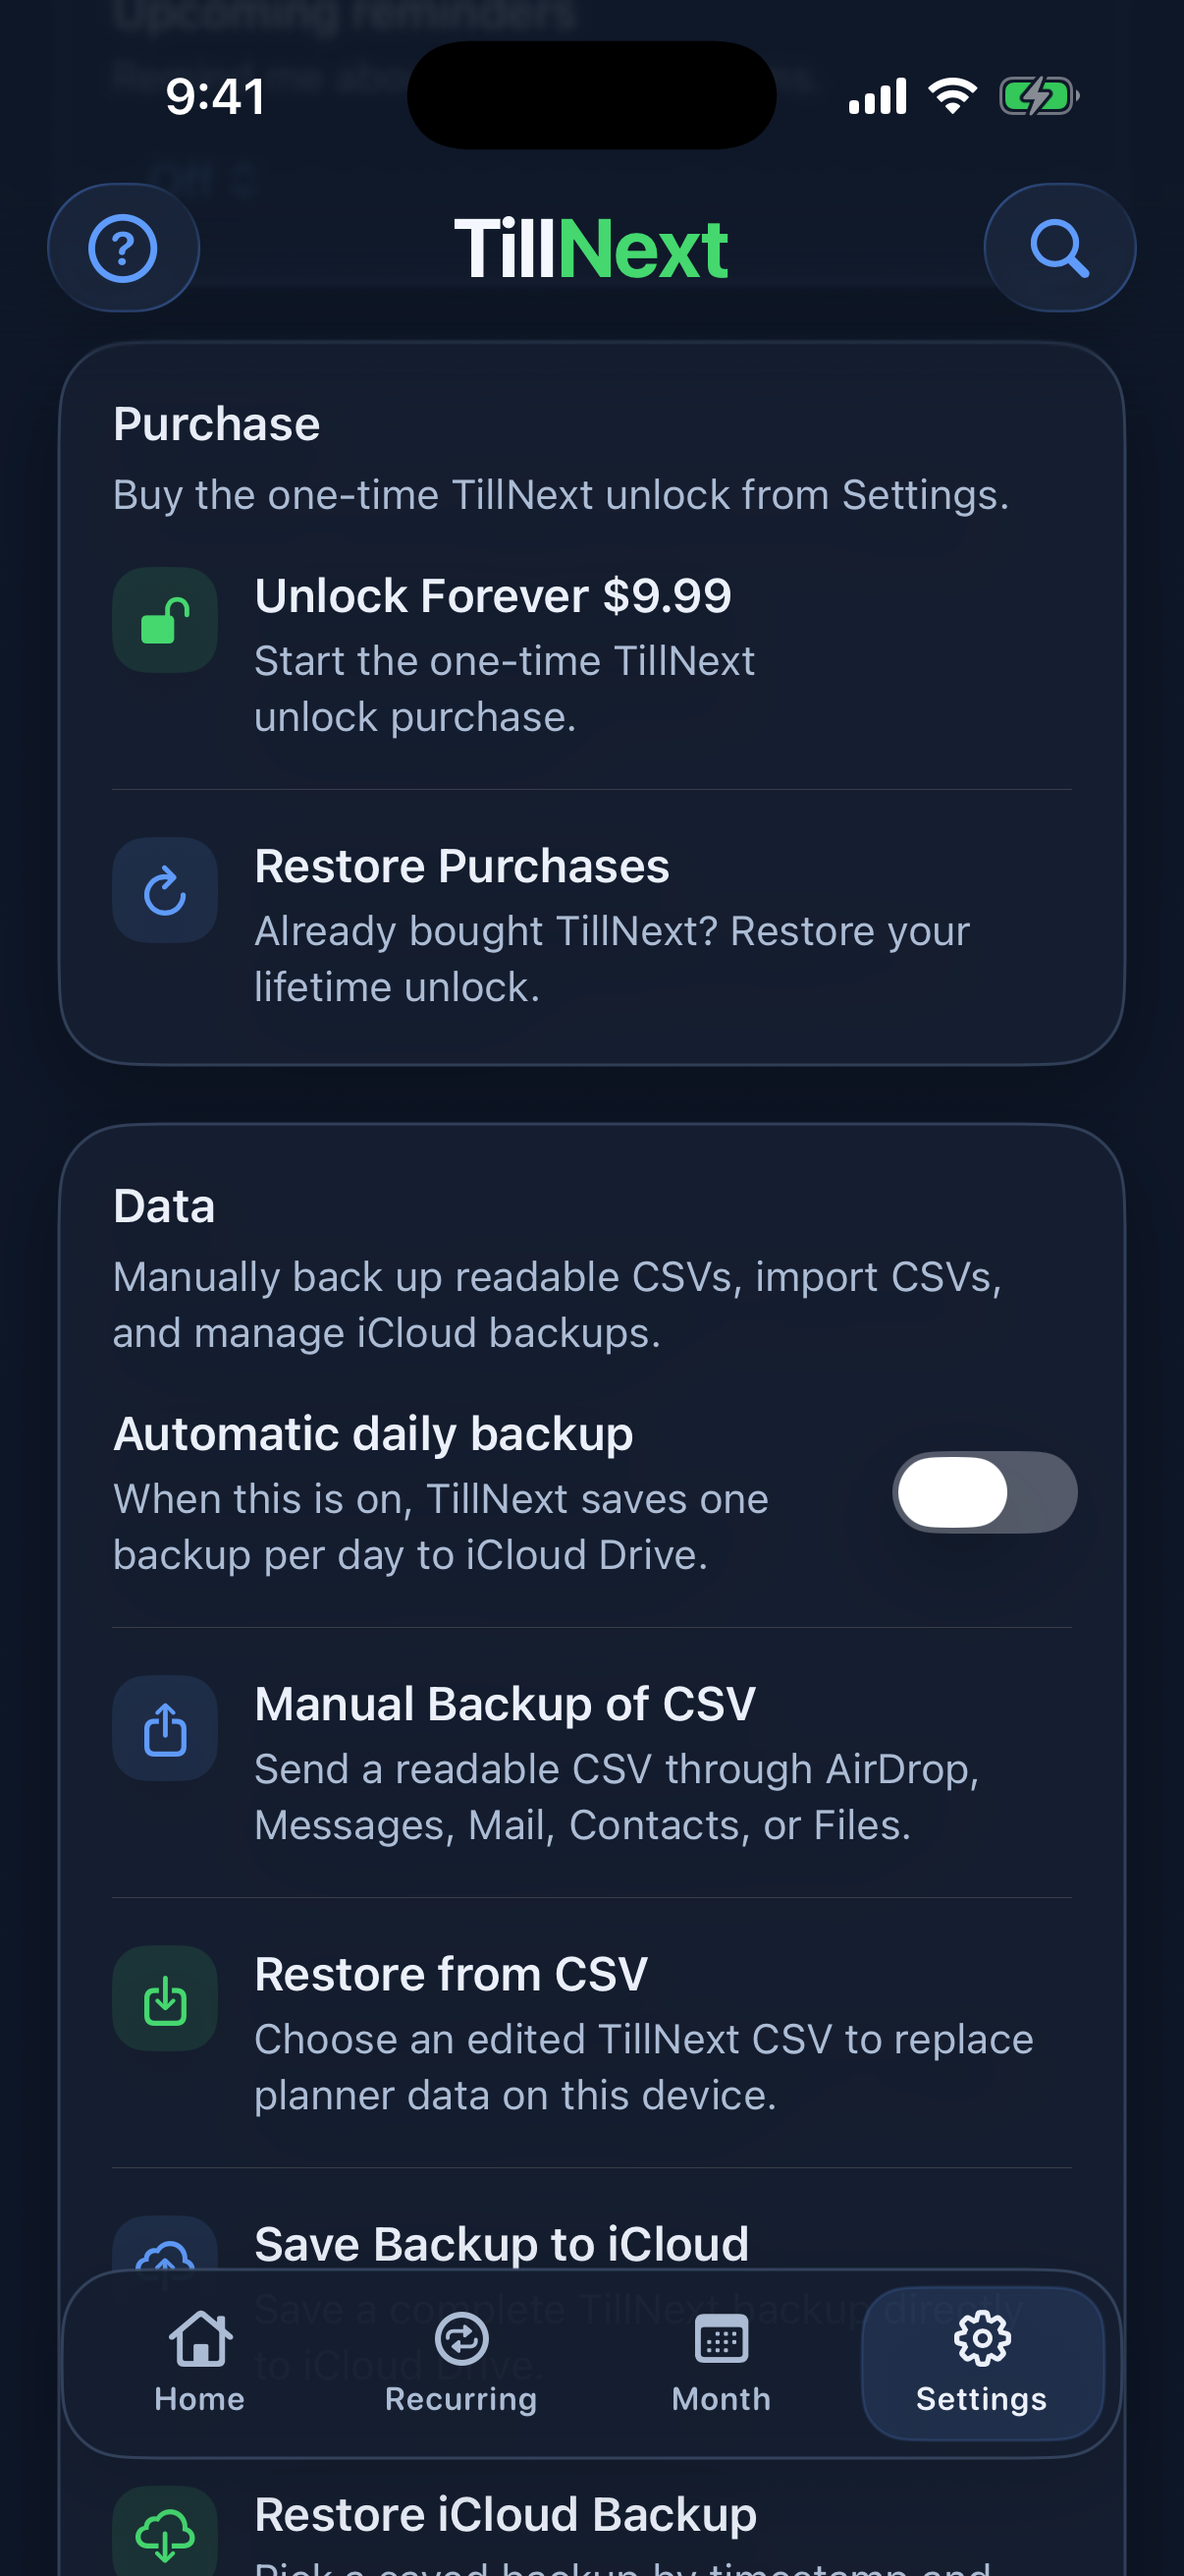
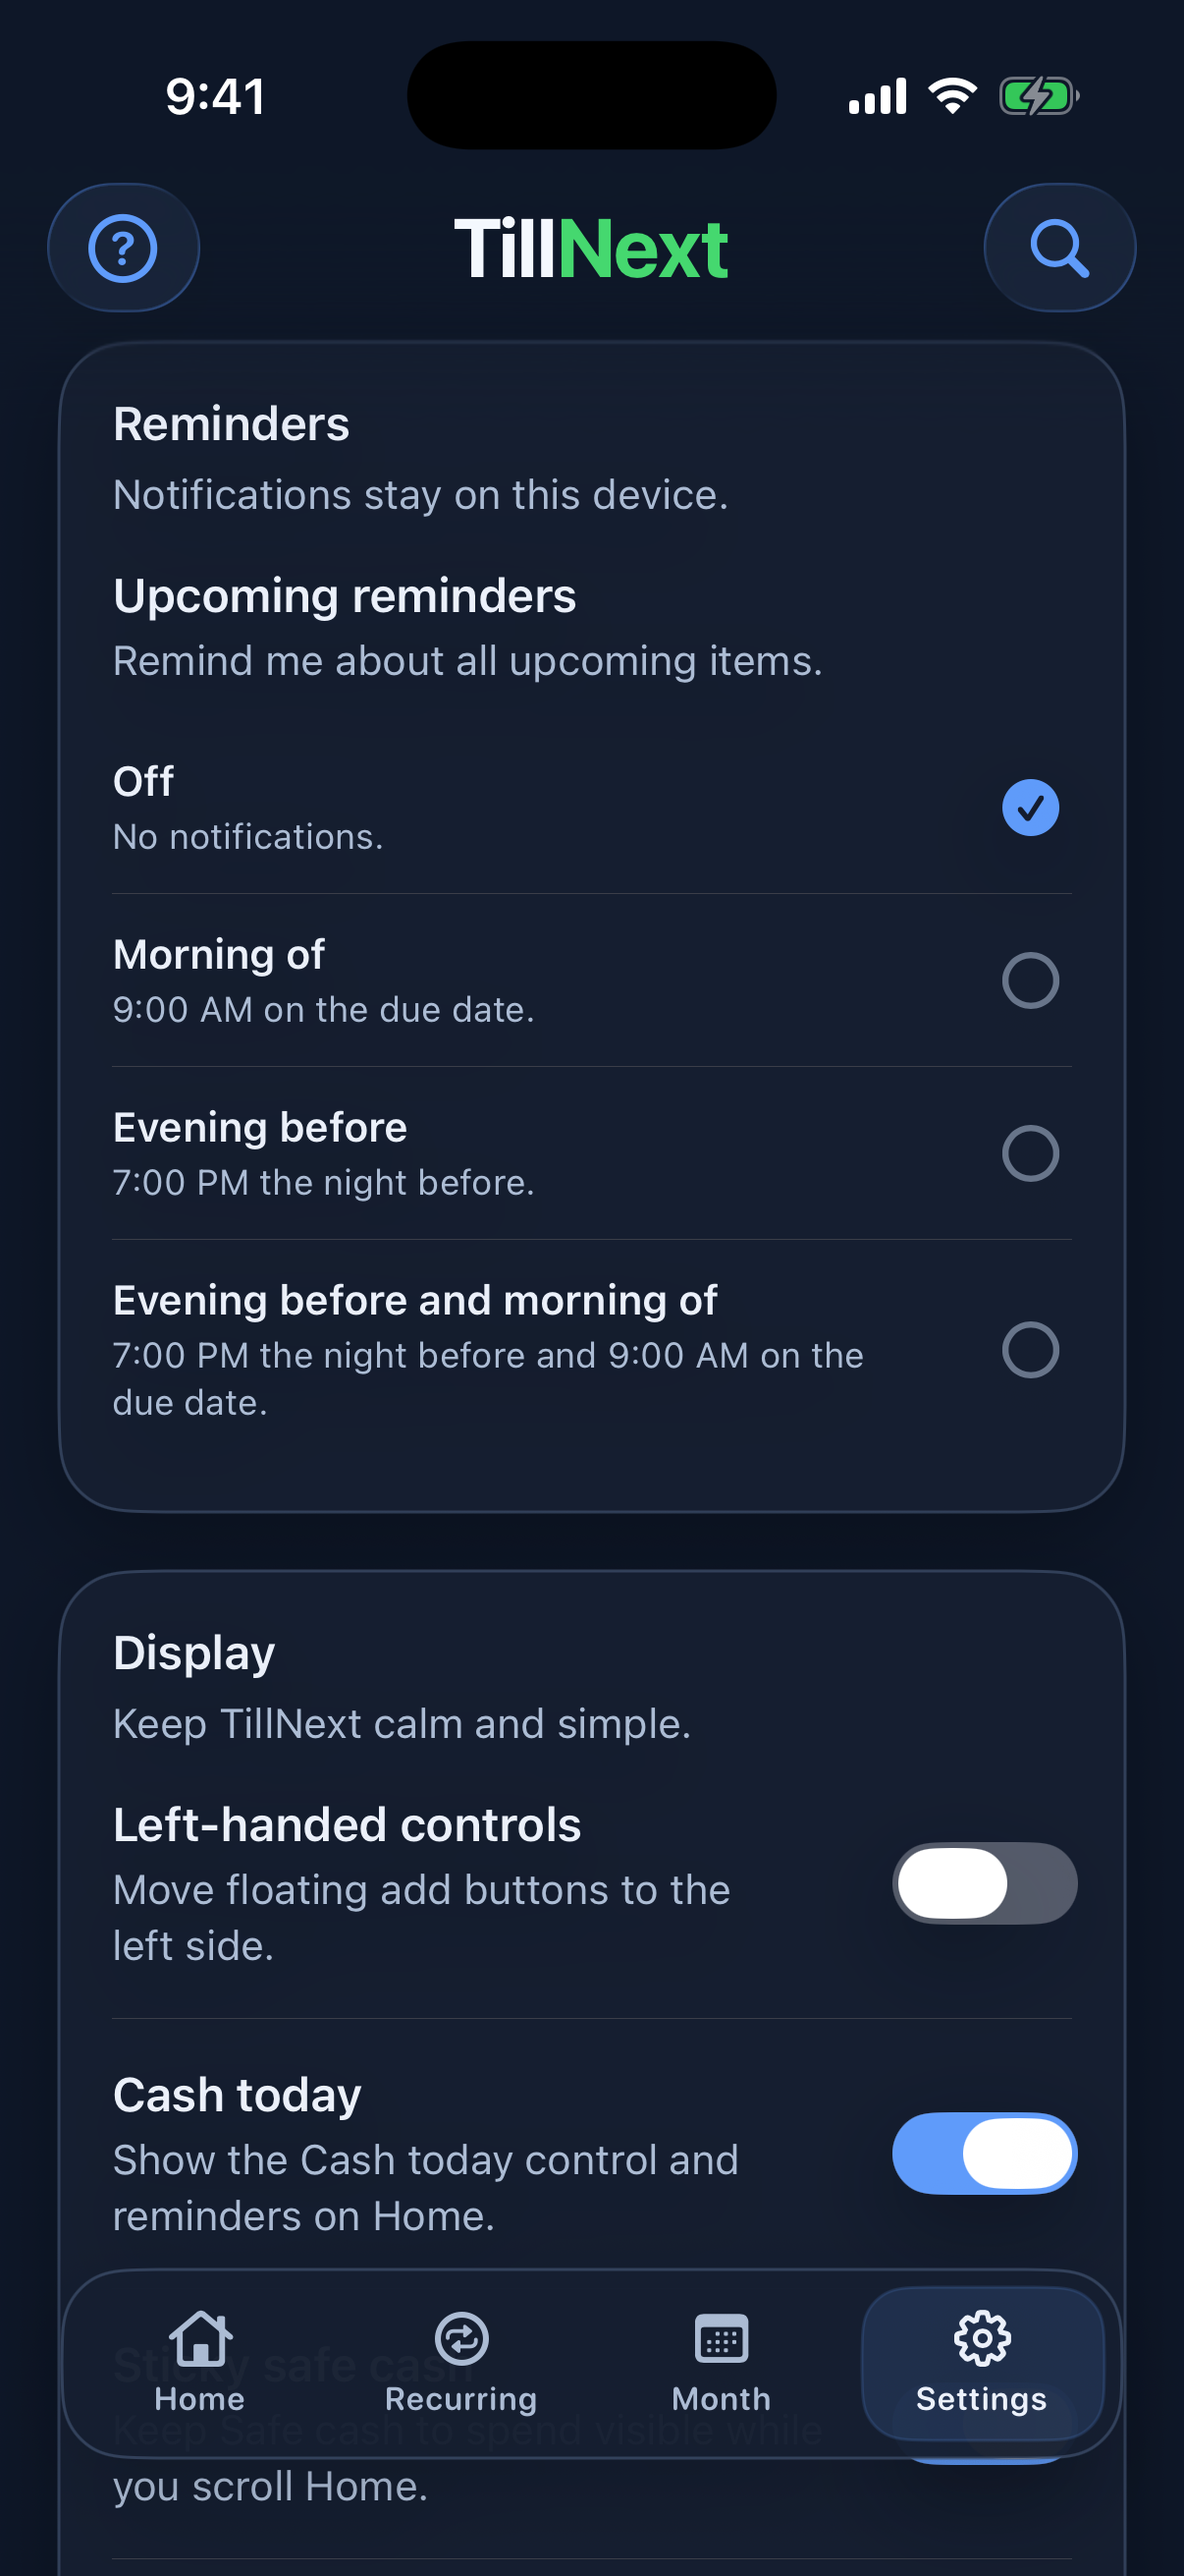
Update changelog for reminder timing settings

diff --git a/changelog/index.html b/changelog/index.html
@@ -5,7 +5,7 @@
     <meta name="viewport" content="width=device-width, initial-scale=1">
     <title>TillNext: Paycheck Planner Changelog</title>
     <meta name="description" content="Public changelog for TillNext: Paycheck Planner.">
-    <link rel="stylesheet" href="../styles.css?v=20260514-build317">
+    <link rel="stylesheet" href="../styles.css?v=20260515-build318">
   </head>
   <body>
     <main>
@@ -20,7 +20,13 @@
       <p>Public notes for meaningful TillNext changes. This page focuses on user-facing updates, privacy posture, and support information.</p>
 
       <h2>Version 1.1.3, Pre-Launch</h2>
-      <p><strong>Updated:</strong> May 14, 2026</p>
+      <p><strong>Updated:</strong> May 15, 2026</p>
+      <h3>May 15, 2026</h3>
+      <ul>
+        <li>Prepared build 318 for pre-launch testing.</li>
+        <li>Made reminder timing choices visible at the top of Settings, including the 9:00 AM and 7:00 PM timing details.</li>
+      </ul>
+
       <h3>May 14, 2026</h3>
       <ul>
         <li>Prepared build 317 for pre-launch testing.</li>
